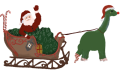
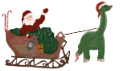
fix images and collision

diff --git a/script/script.js b/script/script.js
@@ -174,7 +174,7 @@ Game.prototype.update = function () {
 
   for (i = 0; i < this.cacti.length; i++) {
     if (
-      rightWall(this.dino) >= leftWall(this.cacti[i]) &&
+      rightWall(this.dino) - 2 >= leftWall(this.cacti[i]) &&
       leftWall(this.dino) <= rightWall(this.cacti[i]) &&
       bottomWall(this.dino) >= topWall(this.cacti[i])
     ) {
